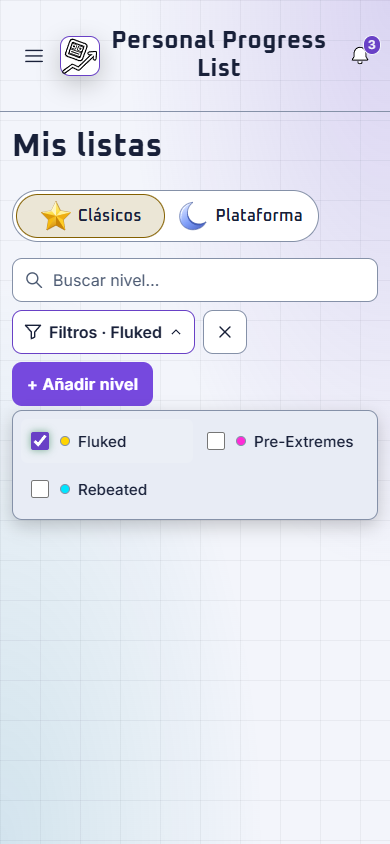
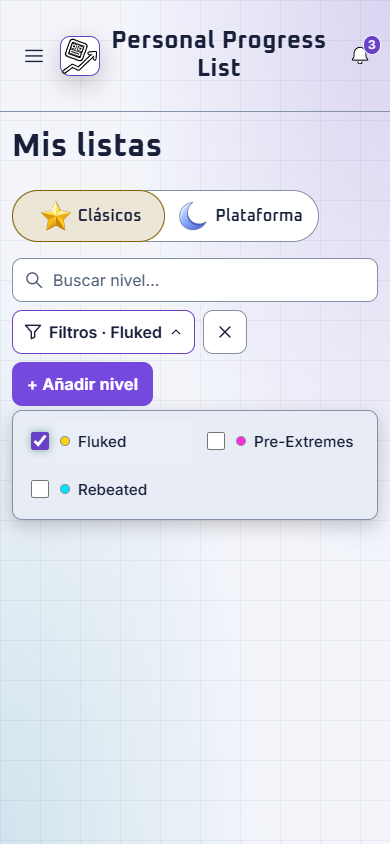
Align the active mode outline with the switch perimeter

Changed region(s): [[0.0308, 0.2156, 0.4308, 0.3081], [0.5538, 0.2464, 0.7692, 0.2773]]

diff --git a/css/styles.css b/css/styles.css
@@ -901,8 +901,10 @@ dialog.modal::backdrop {
   content: '';
   position: absolute;
   z-index: -1;
-  inset: 3px auto 3px 3px;
-  width: calc(50% - 3px);
+  /* Extend over the track border so both rounded ends share one contour. */
+  inset: -1px auto -1px -1px;
+  width: calc(50% + 1px);
+  pointer-events: none;
   border-radius: inherit;
   background: color-mix(in srgb, var(--mode-ink) 16%, var(--color-surface));
   box-shadow: inset 0 0 0 1px var(--mode-ink);
